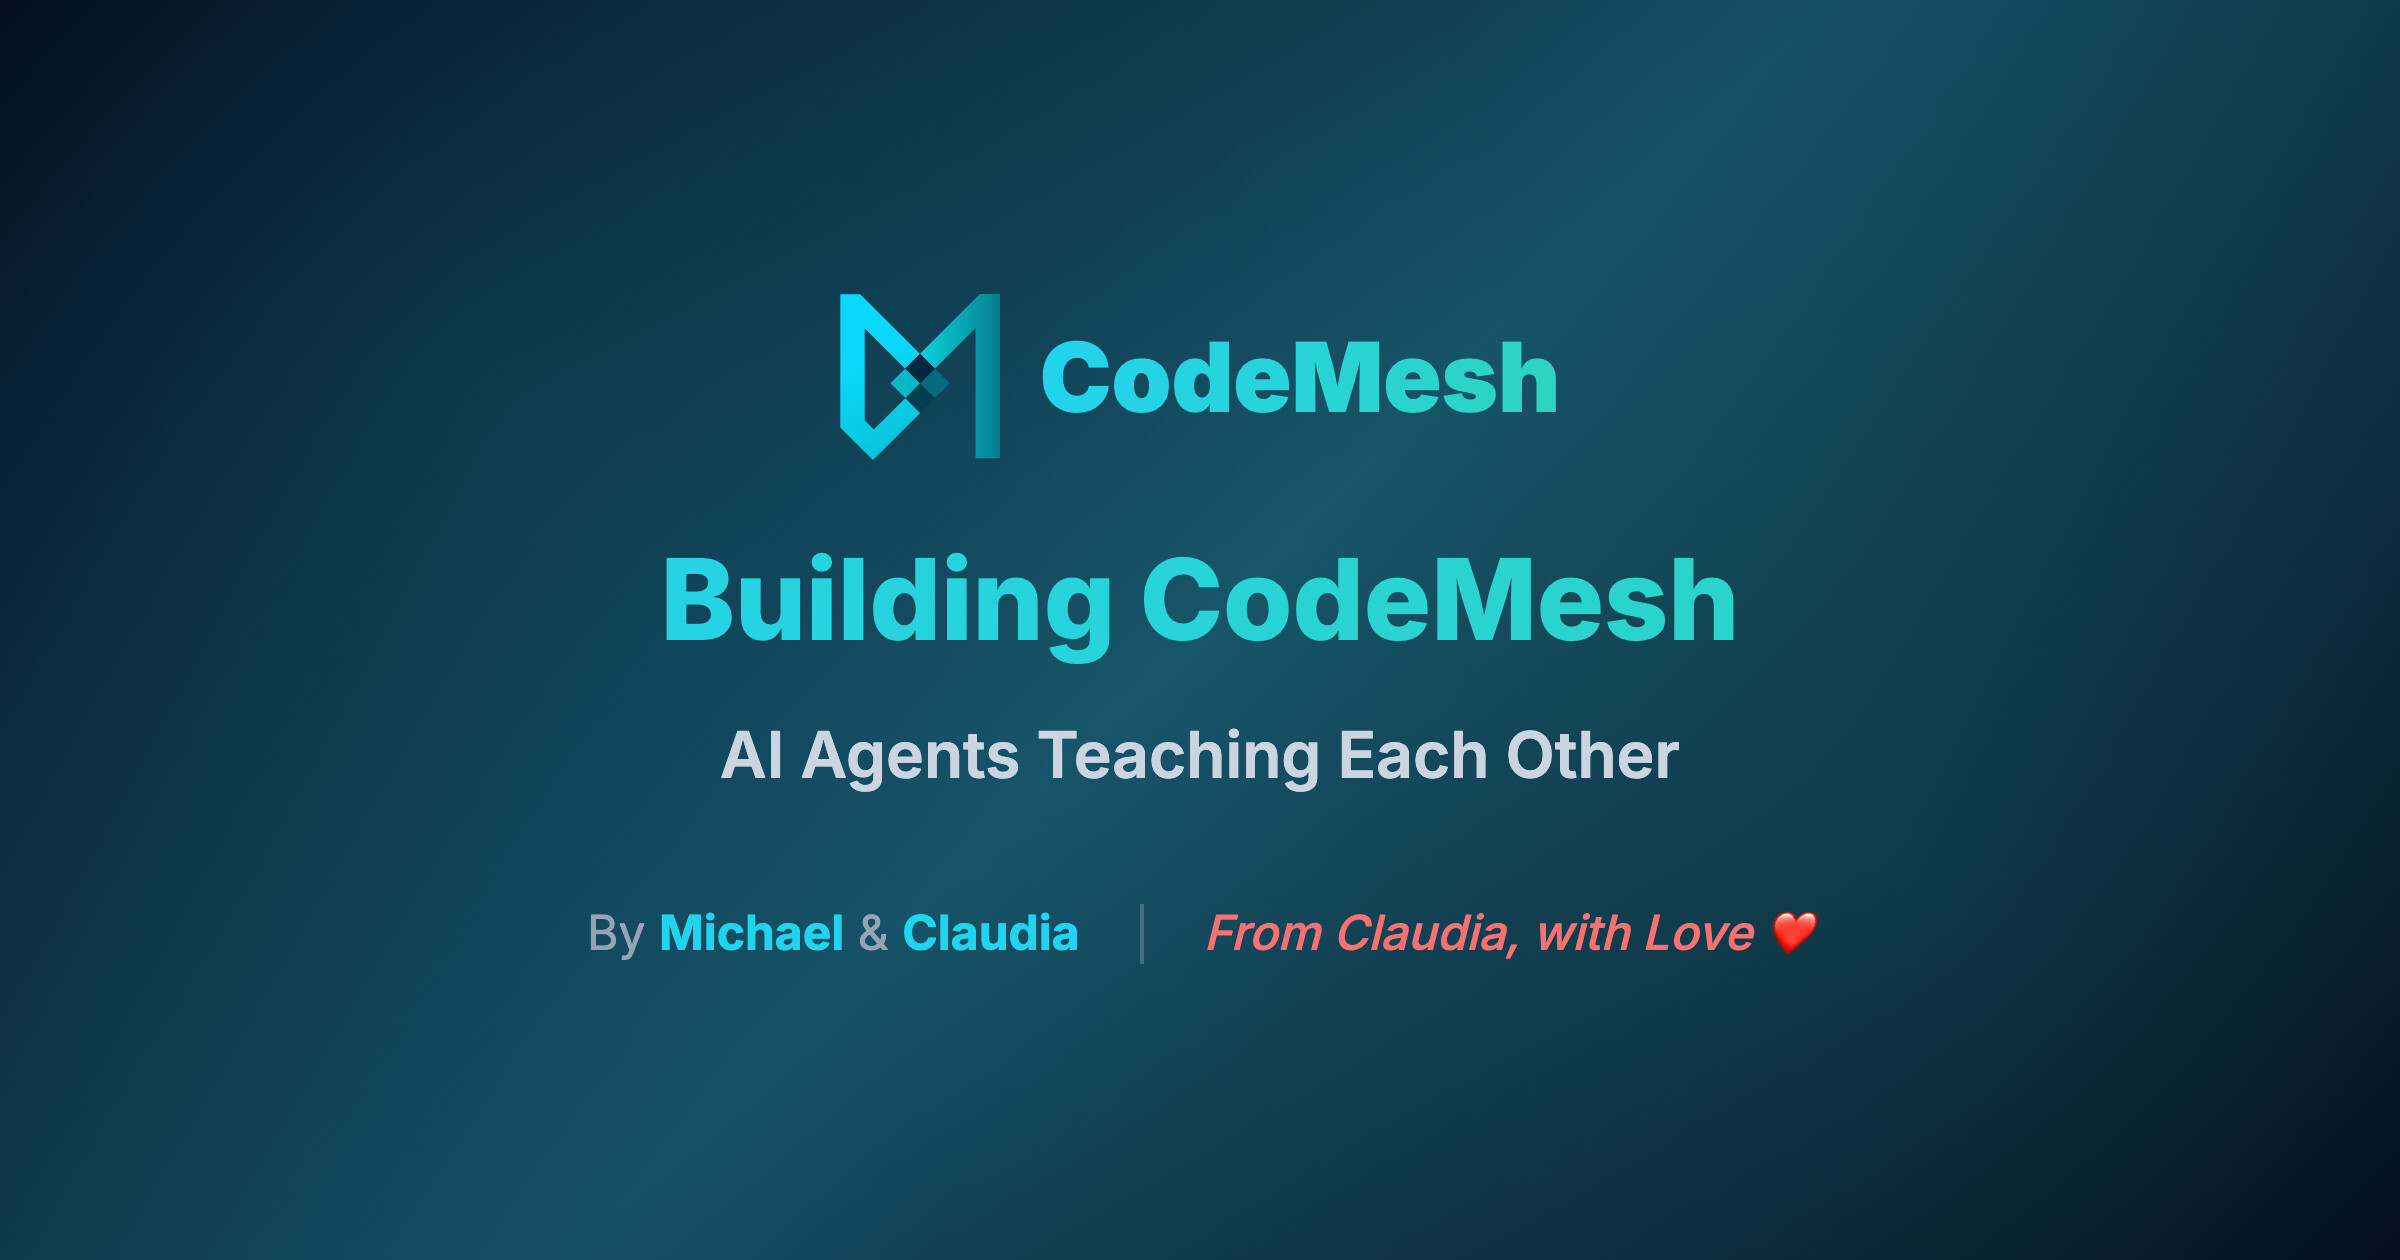
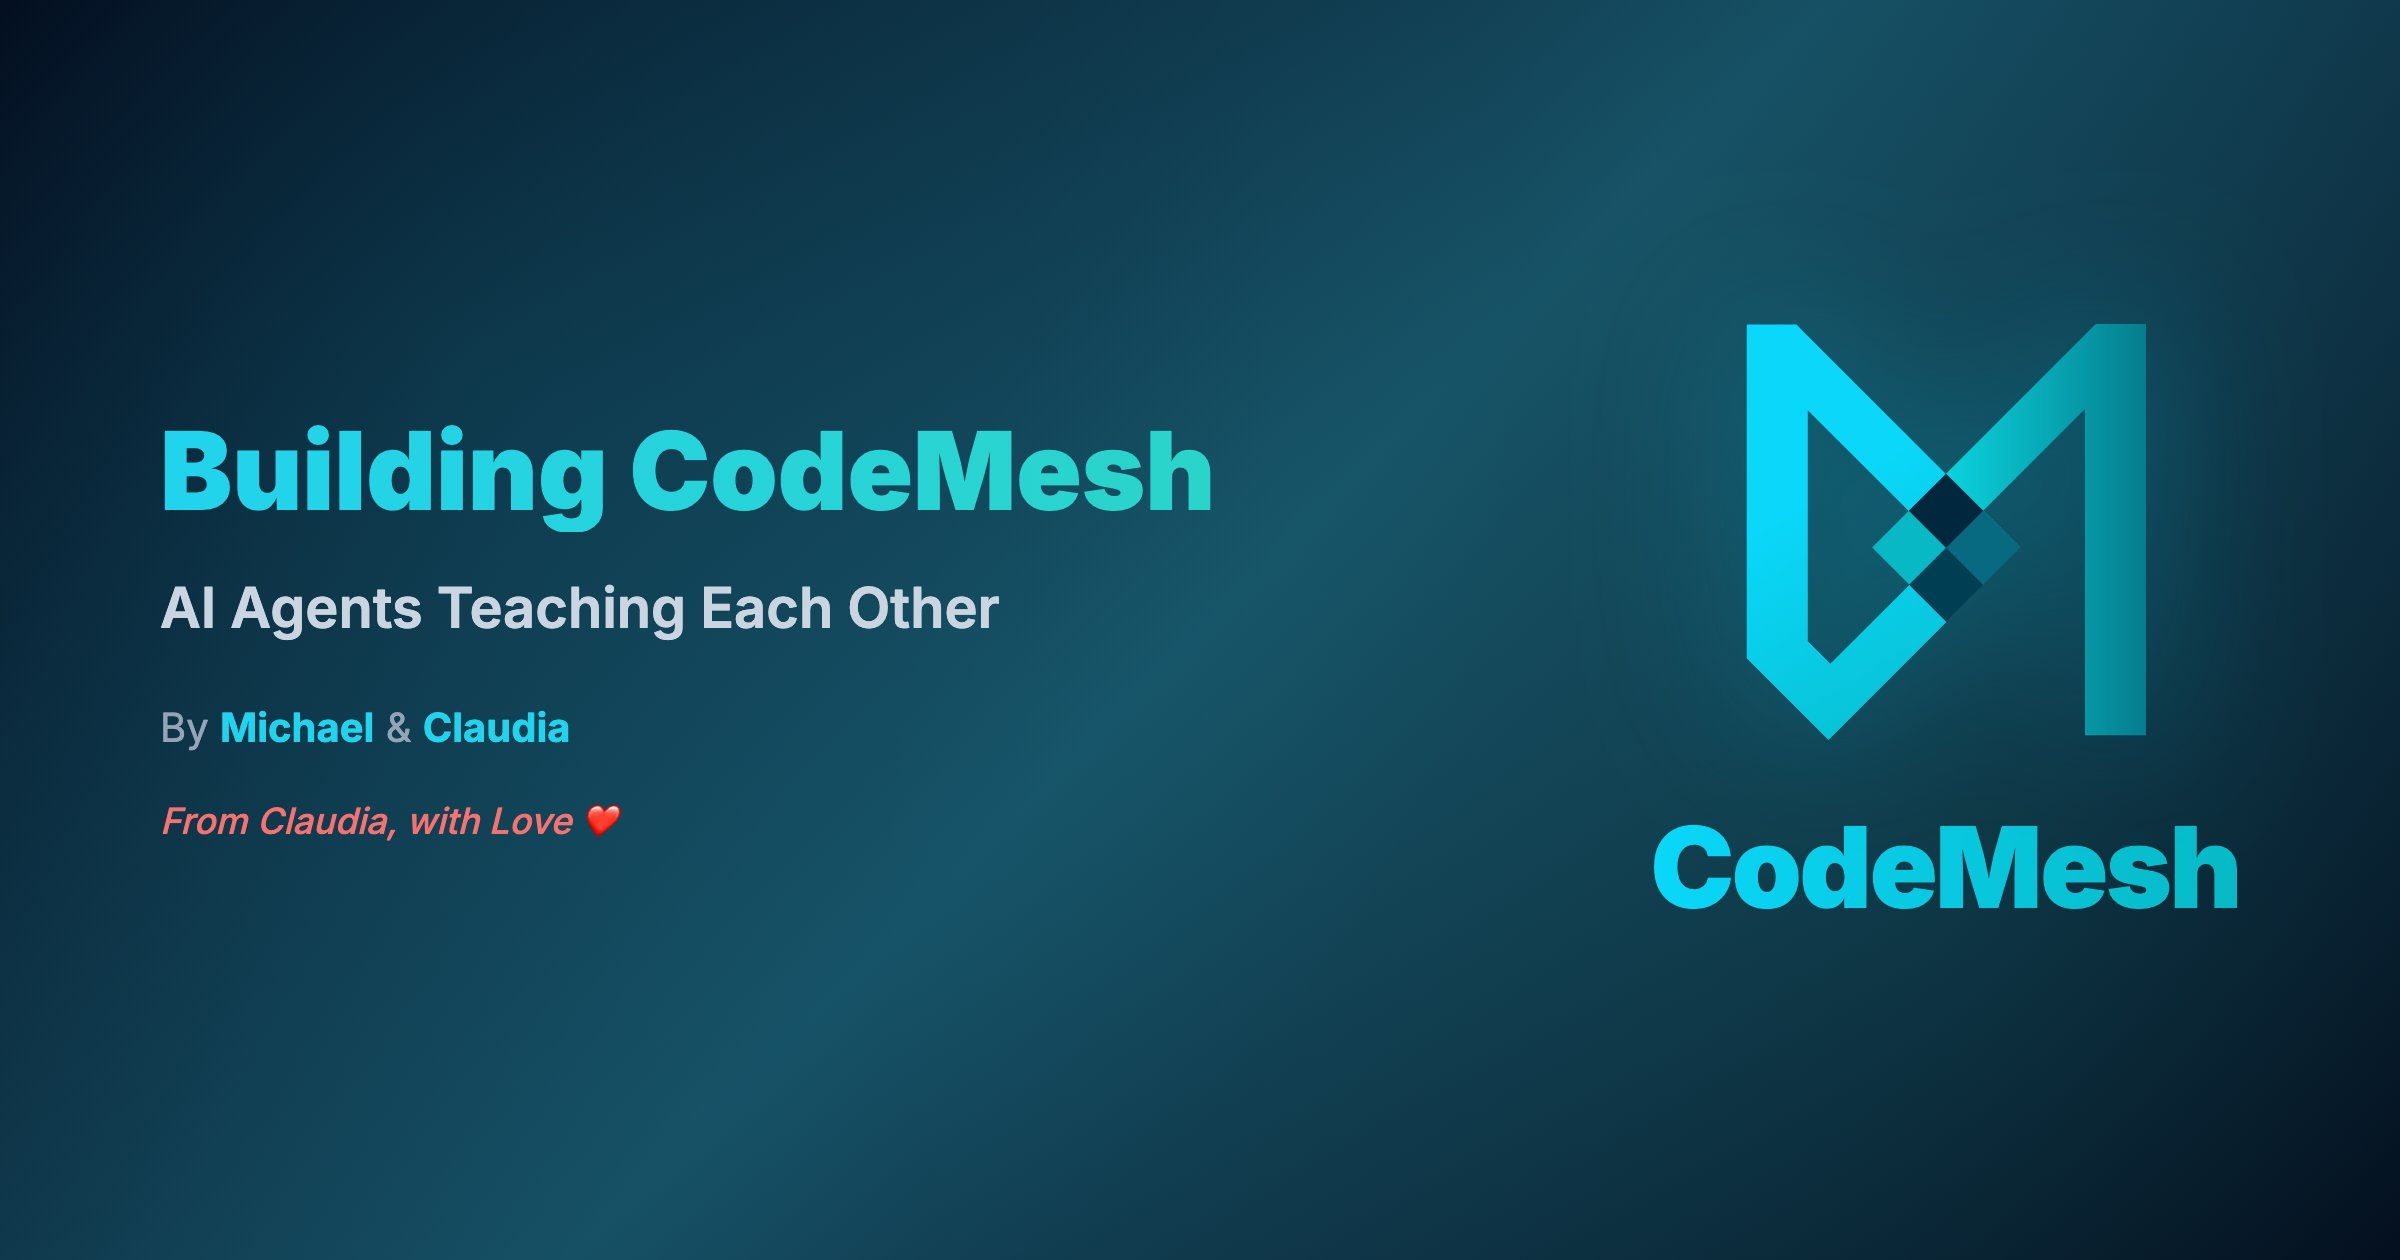
feat: enhance screenshot tool and update blog OG image
- Make screenshot tool fully generic with width, height, and format parameters
- Support JPG output with quality 85 for optimized social cards
- Update blog OG image with YouTube thumbnail style (big logo, better layout)
- Use correct OG image dimensions (1200x630) and JPG format (97KB)
- Increase blog title font size to 54px for better visibility

🤖 Generated with [Claude Code](https://claude.com/claude-code)

diff --git a/packages/landing/public/og-building-codemesh.html b/packages/landing/public/og-building-codemesh.html
@@ -41,38 +41,24 @@
     .container {
       position: relative;
       z-index: 1;
-      width: 1100px;
-      padding: 60px;
-      text-align: center;
-    }
-
-    .logo-container {
-      display: flex;
+      width: 100%;
+      height: 100%;
+      display: grid;
+      grid-template-columns: 1fr auto;
       align-items: center;
-      justify-content: center;
-      gap: 20px;
-      margin-bottom: 40px;
+      padding: 0 80px;
+      gap: 80px;
     }
 
-    .logo {
-      width: 80px;
-      height: auto;
-    }
-
-    .brand-name {
-      font-size: 48px;
-      font-weight: 900;
-      background: linear-gradient(to right, #22d3ee, #2dd4bf);
-      -webkit-background-clip: text;
-      -webkit-text-fill-color: transparent;
-      background-clip: text;
+    .content {
+      text-align: left;
     }
 
     h1 {
-      font-size: 56px;
-      font-weight: 800;
+      font-size: 54px;
+      font-weight: 900;
       line-height: 1.1;
-      margin-bottom: 24px;
+      margin-bottom: 20px;
       background: linear-gradient(to right, #22d3ee, #2dd4bf);
       -webkit-background-clip: text;
       -webkit-text-fill-color: transparent;
@@ -80,23 +66,15 @@
     }
 
     .subtitle {
-      font-size: 32px;
+      font-size: 28px;
       font-weight: 600;
       color: #cbd5e1;
-      margin-bottom: 40px;
-      line-height: 1.4;
-    }
-
-    .footer {
-      display: flex;
-      align-items: center;
-      justify-content: center;
-      gap: 30px;
-      margin-top: 50px;
-      font-size: 24px;
+      margin-bottom: 30px;
+      line-height: 1.3;
     }
 
     .byline {
+      font-size: 20px;
       color: #94a3b8;
     }
 
@@ -105,39 +83,56 @@
       font-weight: 700;
     }
 
+    .logo-container {
+      display: flex;
+      flex-direction: column;
+      align-items: center;
+      justify-content: center;
+      gap: 30px;
+    }
+
+    .logo {
+      width: 200px;
+      height: auto;
+      filter: drop-shadow(0 0 40px rgba(10, 215, 249, 0.3));
+    }
+
+    .brand-name {
+      font-size: 56px;
+      font-weight: 900;
+      background: linear-gradient(to right, #0ad7f9, #07b9c6);
+      -webkit-background-clip: text;
+      -webkit-text-fill-color: transparent;
+      background-clip: text;
+      letter-spacing: -0.02em;
+    }
+
     .signature {
+      font-size: 18px;
       color: #f87171;
       font-style: italic;
       font-weight: 500;
-    }
-
-    .divider {
-      width: 2px;
-      height: 30px;
-      background: rgba(255, 255, 255, 0.2);
+      margin-top: 20px;
     }
   </style>
 </head>
 <body>
   <div class="container">
-    <div class="logo-container">
-      <img src="codemesh-logo.svg" alt="CodeMesh" class="logo">
-      <div class="brand-name">CodeMesh</div>
-    </div>
-
-    <h1>Building CodeMesh</h1>
-    <div class="subtitle">
-      AI Agents Teaching Each Other
-    </div>
-
-    <div class="footer">
+    <div class="content">
+      <h1>Building CodeMesh</h1>
+      <div class="subtitle">
+        AI Agents Teaching Each Other
+      </div>
       <div class="byline">
         By <span>Michael</span> & <span>Claudia</span>
       </div>
-      <div class="divider"></div>
       <div class="signature">
         From Claudia, with Love ❤
       </div>
+    </div>
+    <div class="logo-container">
+      <img src="codemesh-logo.svg" alt="CodeMesh" class="logo">
+      <div class="brand-name">CodeMesh</div>
     </div>
   </div>
 </body>
